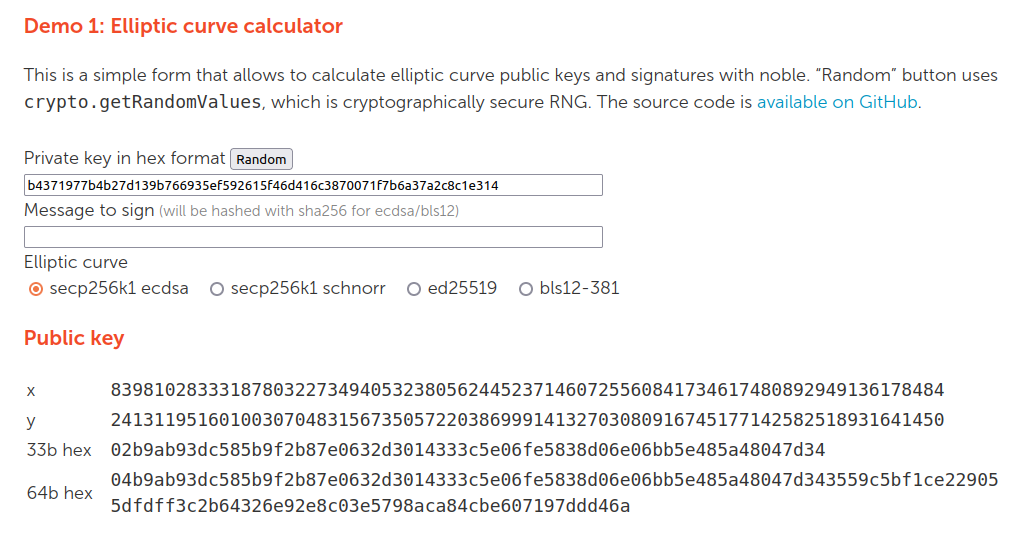
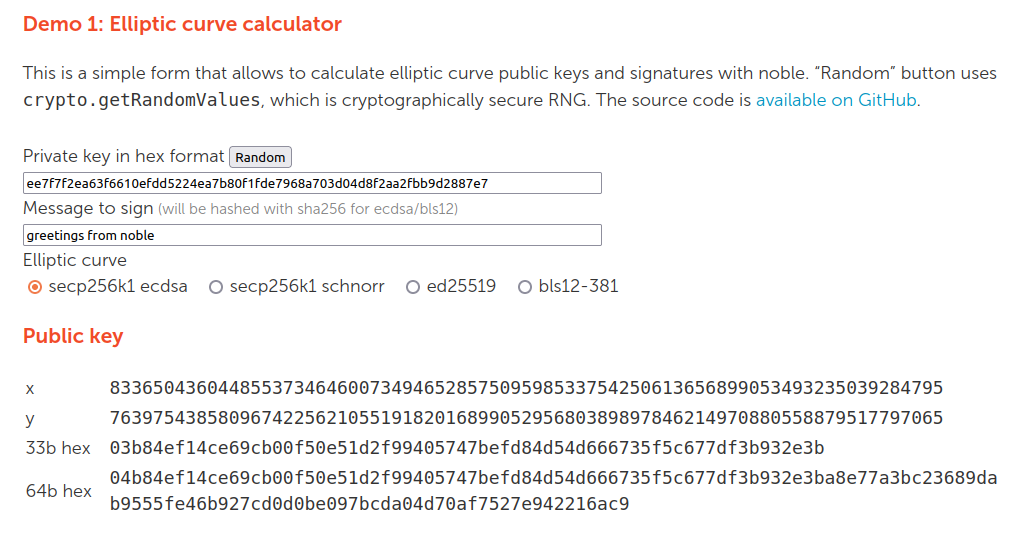
Fix consistency issues in README

diff --git a/README.md b/README.md
@@ -137,16 +137,16 @@ Connected to MQTT Broker 192.168.11.109
 Initializing Elliptic Curve ...
 SECP256K1 context preallocated with size 704 bytes
 SECP256K1 context created
-Private key: bdb51a16eb6460ec16f84d7b6f19e20d9b9ab558fa0e9ae4bb493ef779f14055
-Public key: 020c4a51e895deb4903ca0641b28f9887b8013604310654a34b35407d336d85c8d
+Private key: ee7f7f2ea63f6610efdd5224ea7b80f1fde7968a703d04d8f2aa2fbb9d2887e7
+Public key: 03b84ef14ce69cb00f50e51d2f99405747befd84d54d666735f5c677df3b932e3b
 Key is valid
 Elliptic curve initialized.
 Initializing topics...
-Prefix set: /topic/020c4a51e895deb4903ca0641b28f9887b8013604310654a34b35407d336d85c8d
-Txn Hash topic set: /topic/020c4a51e895deb4903ca0641b28f9887b8013604310654a34b35407d336d85c8d/txnHash
-Batch Hash topic set: /topic/020c4a51e895deb4903ca0641b28f9887b8013604310654a34b35407d336d85c8d/batchHash
-Txn Sig topic set: /topic/020c4a51e895deb4903ca0641b28f9887b8013604310654a34b35407d336d85c8d/txnSig
-Batch Sig topic set: /topic/020c4a51e895deb4903ca0641b28f9887b8013604310654a34b35407d336d85c8d/batchSig
+Prefix set: /topic/03b84ef14ce69cb00f50e51d2f99405747befd84d54d666735f5c677df3b932e3b
+Txn Hash topic set: /topic/03b84ef14ce69cb00f50e51d2f99405747befd84d54d666735f5c677df3b932e3b/txnHash
+Batch Hash topic set: /topic/03b84ef14ce69cb00f50e51d2f99405747befd84d54d666735f5c677df3b932e3b/batchHash
+Txn Sig topic set: /topic/03b84ef14ce69cb00f50e51d2f99405747befd84d54d666735f5c677df3b932e3b/txnSig
+Batch Sig topic set: /topic/03b84ef14ce69cb00f50e51d2f99405747befd84d54d666735f5c677df3b932e3b/batchSig
 Subscribed to hash topics
 Initializing chip with its public key...
 ```
